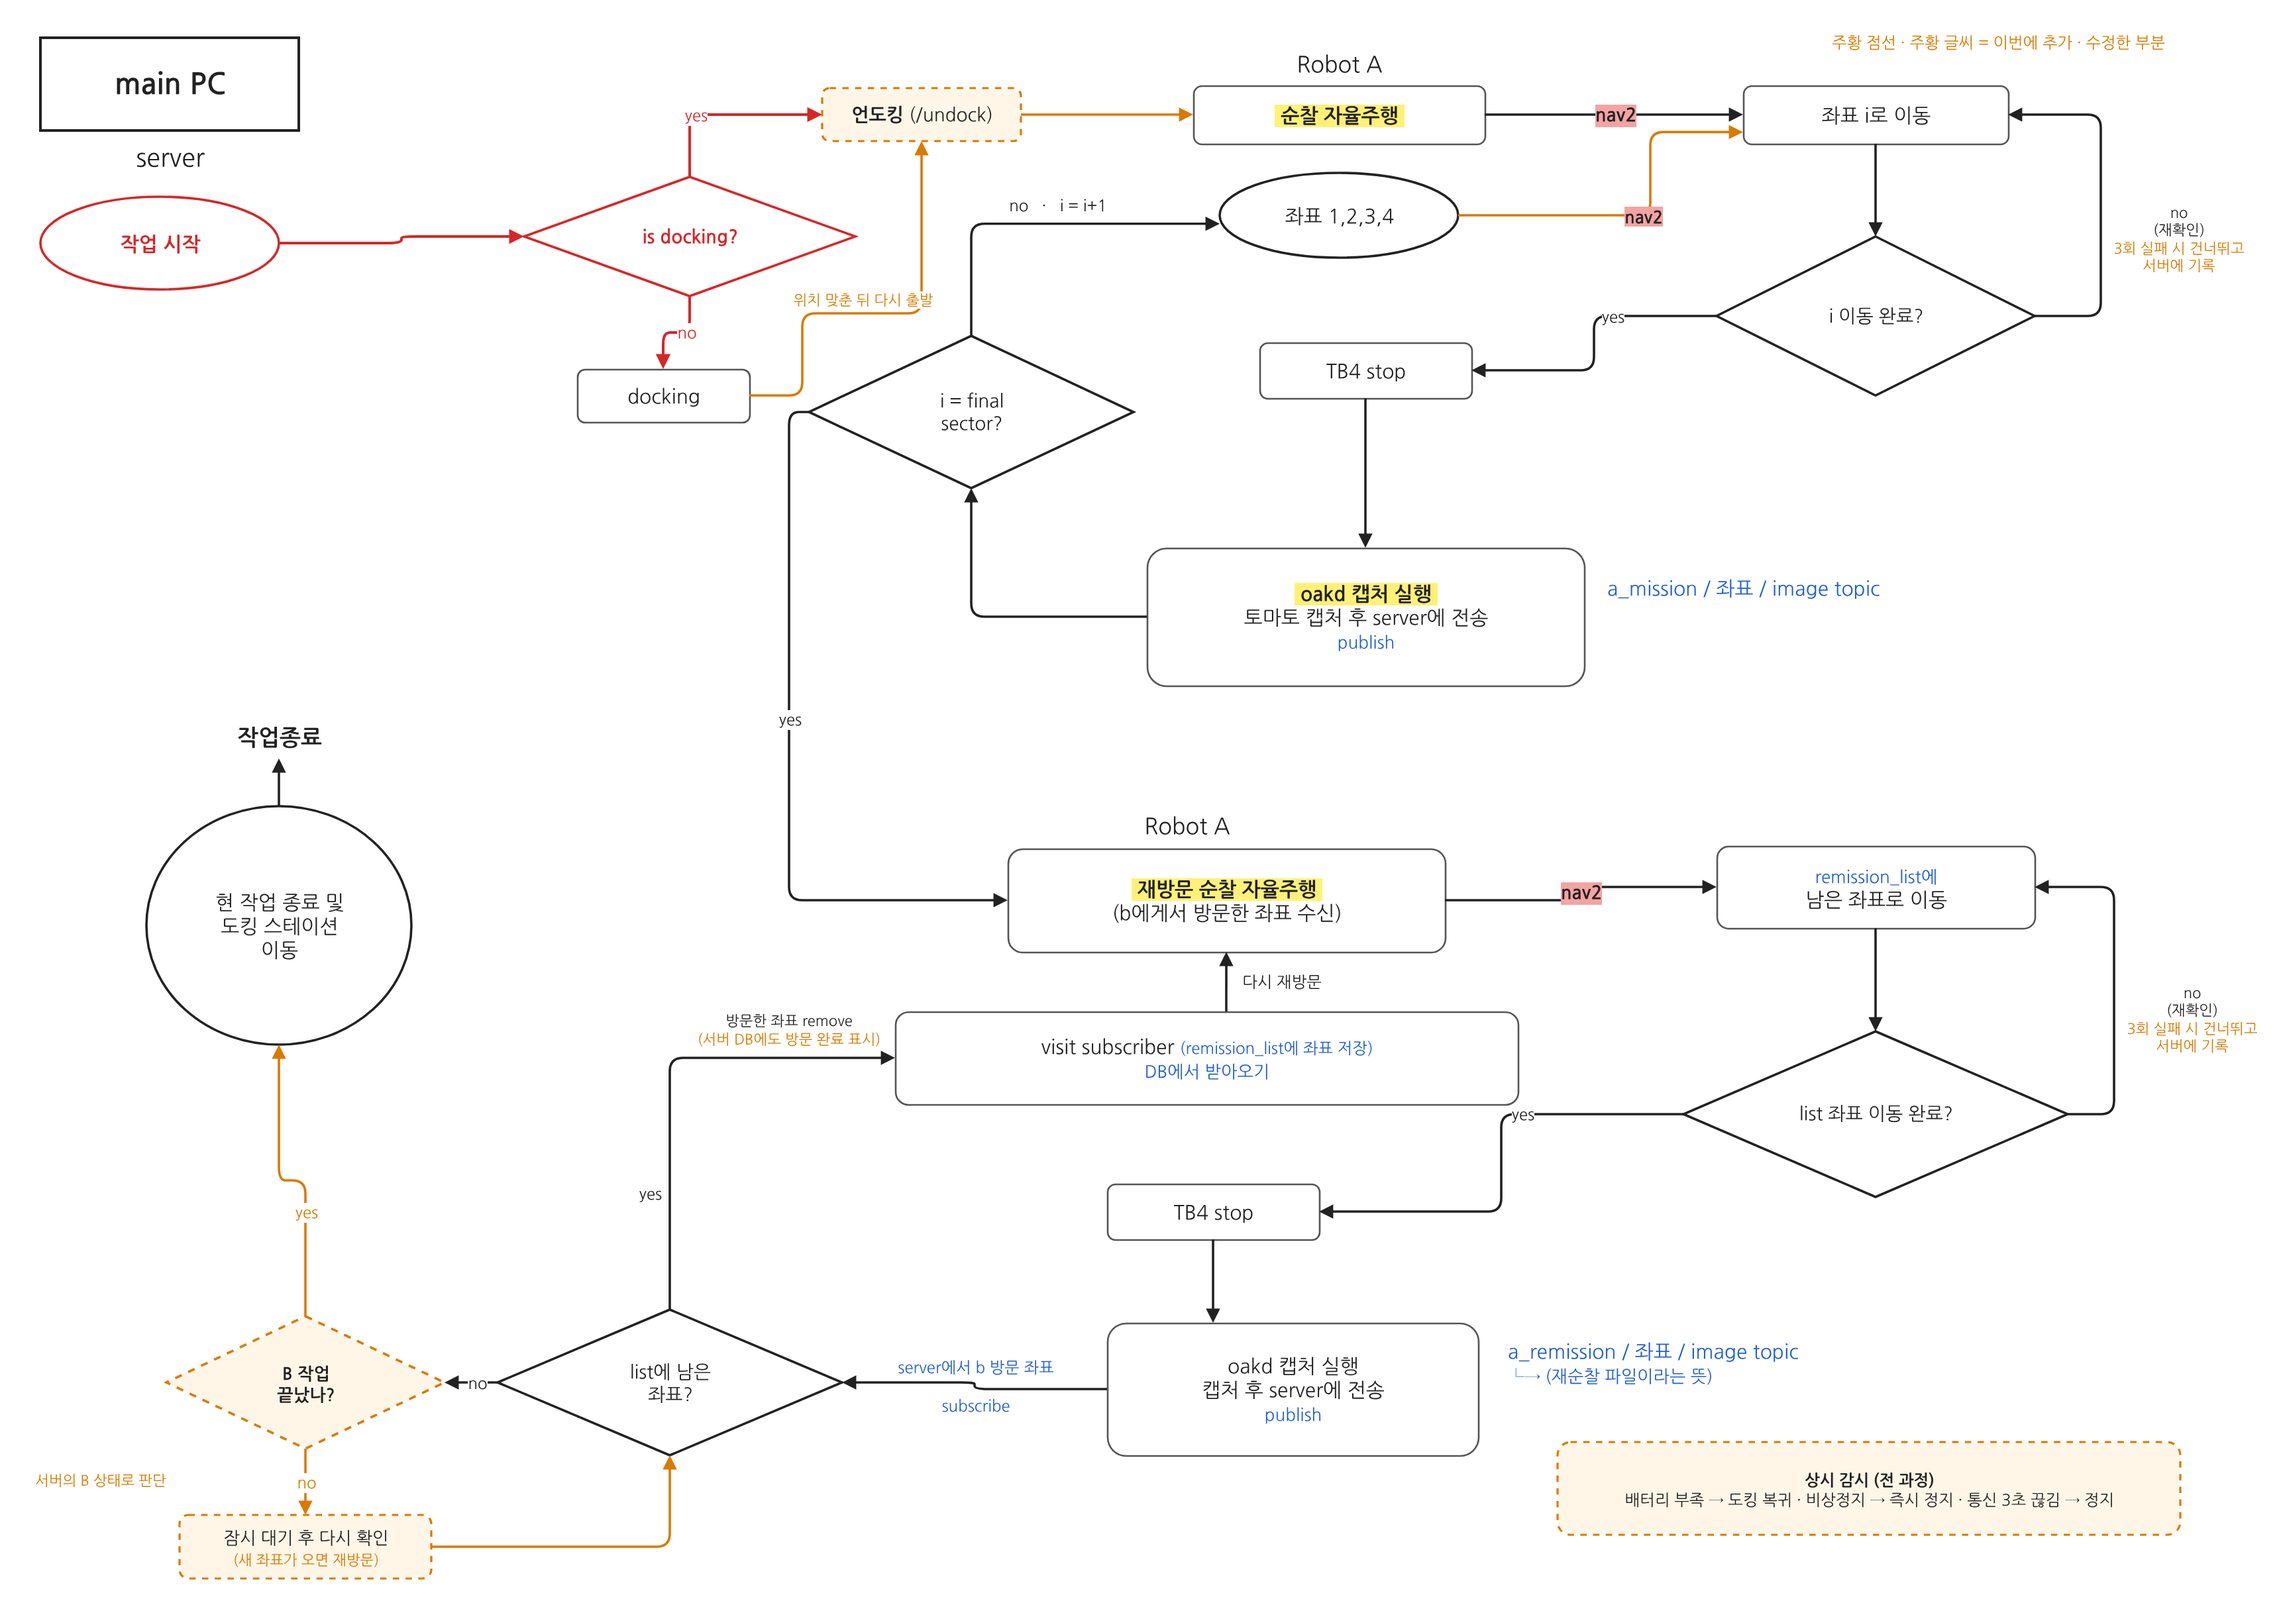
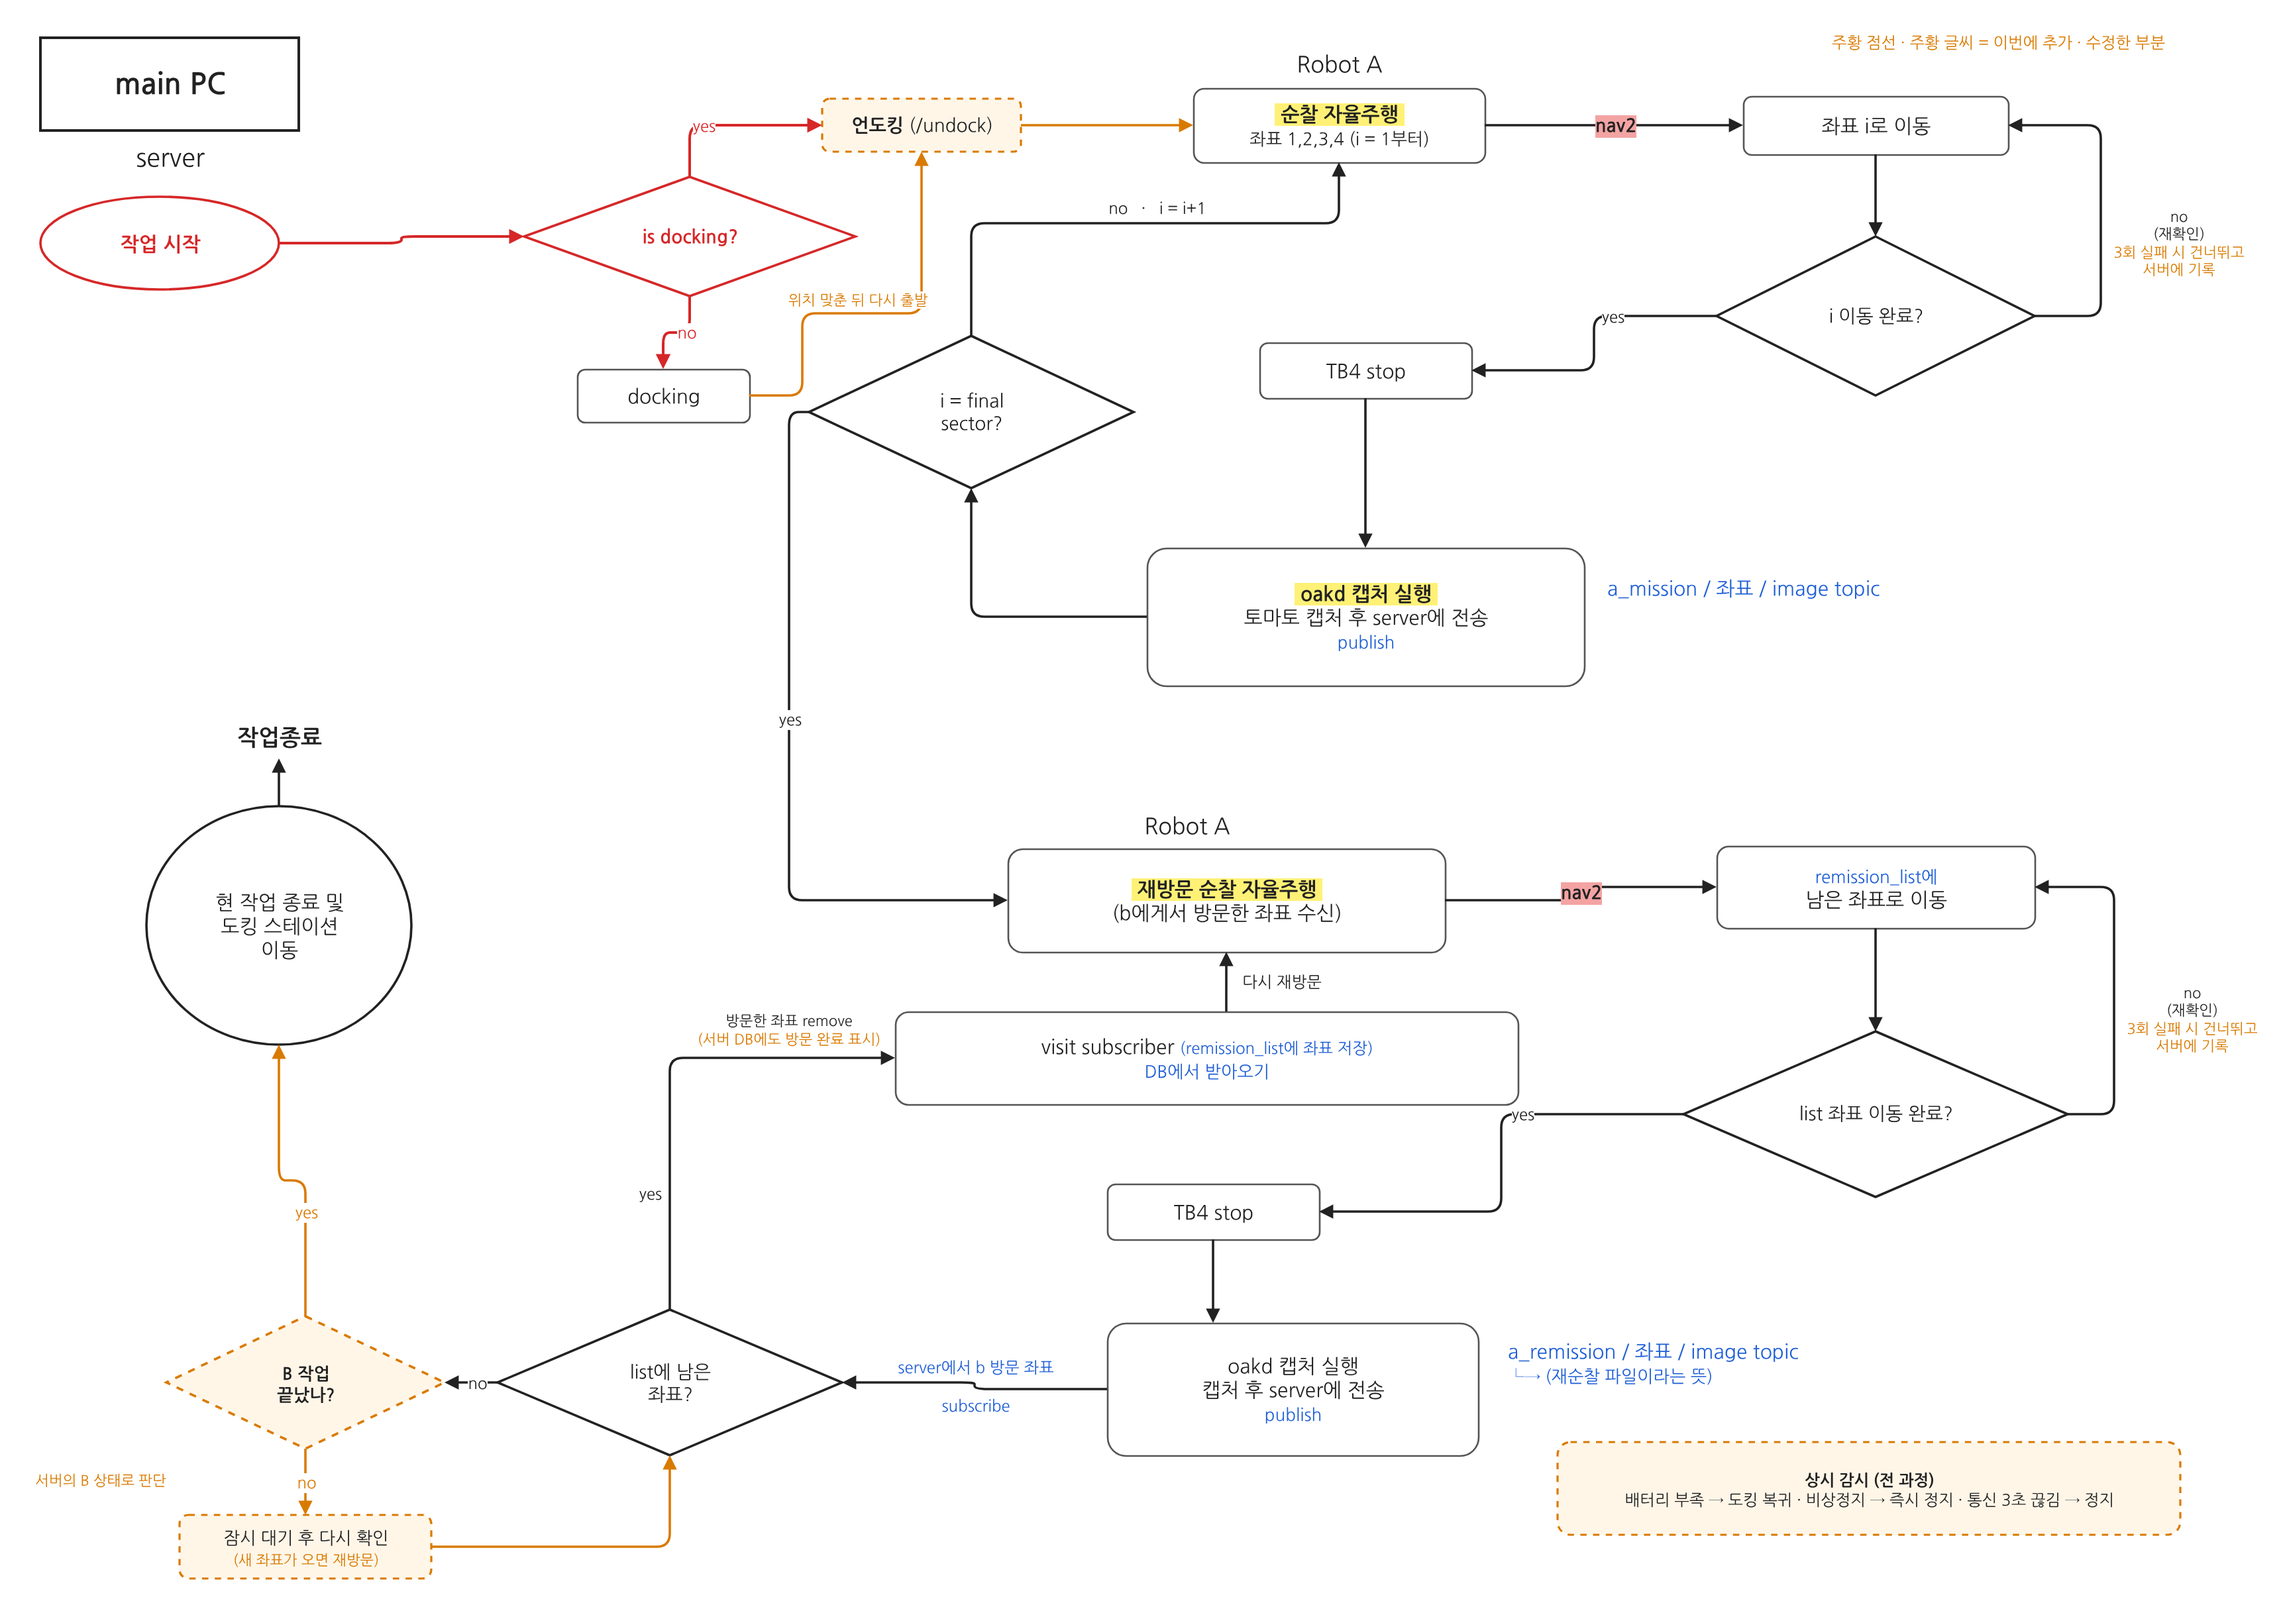
우리의 로직: 순찰 자율주행과 좌표 1,2,3,4를 한 단계로 합침
Claude-Session: https://claude.ai/code/session_01528HrcY1y9kFFTVHbeoEZe

diff --git a/reports/robotA_arch/gen_logic.py b/reports/robotA_arch/gen_logic.py
@@ -60,29 +60,27 @@ text(35, 98, 195, 26, 'server', size=19)
 ST = oval(35, 140, 180, 70, '<b>작업 시작</b>', RED)
 D0 = dia(400, 125, 250, 90, '<b>is docking?</b>', RED)
 DK = step(440, 270, 130, 40, 'docking')
-UD = box(625, 58, 150, 40, '<b>언도킹</b> (/undock)', ADD)
+UD = box(625, 66, 150, 40, '<b>언도킹</b> (/undock)', ADD)
 edge(ST, D0, color=RED, width=2)
 edge(D0, DK, 'no', color=RED, ex=0.5, ey=1, nx=0.5, ny=0, lx=-0.2, width=2)
 
 # ---- 1단계: 순찰 ----
 text(905, 26, 220, 26, 'Robot A', size=17)
-P1 = step(905, 56, 220, 44, hl('<b>순찰 자율주행</b>'))
-C1 = oval(925, 122, 180, 64, '좌표 1,2,3,4')
-M1 = step(1320, 56, 200, 44, '좌표 i로 이동')
+P1 = step(905, 58, 220, 56, hl('<b>순찰 자율주행</b>') + '<br><span style="font-size:13px">좌표 1,2,3,4 (i = 1부터)</span>')
+M1 = step(1320, 64, 200, 44, '좌표 i로 이동')
 D1 = dia(1300, 170, 240, 120, 'i 이동 완료?')
 T1 = step(955, 250, 160, 42, 'TB4 stop')
 O1 = step(870, 405, 330, 104, hl('<b>oakd 캡처 실행</b>') + '<br>토마토 캡처 후 server에 전송<br>' + blue('publish'))
 text(1215, 420, 330, 30, blue('a_mission / 좌표 / image topic', 15), align='left')
 FD = dia(615, 245, 245, 115, 'i = final<br>sector?')
 
-edge(D0, UD, 'yes', color=RED, ex=0.5, ey=0, nx=0, ny=0.5, points=((525, 78),), lx=-0.3, width=2)
+edge(D0, UD, 'yes', color=RED, ex=0.5, ey=0, nx=0, ny=0.5, points=((525, 86),), lx=-0.3, width=2)
 edge(UD, P1, ex=1, ey=0.5, nx=0, ny=0.5, color=OR)
 edge(DK, UD, add_note('위치 맞춘 뒤 다시 출발'), ex=1, ey=0.5, nx=0.5, ny=1, points=((610, 290), (610, 228), (700, 228)), color=OR, lx=-0.086, loff=(0, -11), font=11)
-edge(FD, C1, 'no &nbsp; · &nbsp; i = i+1', ex=0.5, ey=0, nx=0, ny=0.6, points=((737, 160),), lx=0.1, loff=(0, -14))
+edge(FD, P1, 'no &nbsp; · &nbsp; i = i+1', ex=0.5, ey=0, nx=0.5, ny=1, points=((737, 160), (1015, 160)), lx=0.1, loff=(0, -12))
 edge(P1, M1, '<b>nav2</b>', lbg=NAVBG, fcol=INK, font=14)
 edge(M1, D1, ex=0.5, ey=1, nx=0.5, ny=0)
-edge(C1, M1, '<b>nav2</b>', ex=1, ey=0.5, nx=0, ny=0.8, points=((1250, 154), (1250, 91)), lbg=NAVBG, fcol=INK, font=13, color=OR)
-edge(D1, M1, 'no<br>(재확인)<br>' + add_note('3회 실패 시 건너뛰고<br>서버에 기록'), ex=1, ey=0.5, nx=1, ny=0.5, points=((1590, 230), (1590, 78)), lx=-0.2, loff=(58, 0), font=11)
+edge(D1, M1, 'no<br>(재확인)<br>' + add_note('3회 실패 시 건너뛰고<br>서버에 기록'), ex=1, ey=0.5, nx=1, ny=0.5, points=((1590, 230), (1590, 86)), lx=-0.2, loff=(58, 0), font=11)
 edge(D1, T1, 'yes', ex=0, ey=0.5, nx=1, ny=0.5, lx=-0.3)
 edge(T1, O1, ex=0.5, ey=1, nx=round((1035 - 870) / 330, 4), ny=0)
 edge(O1, FD, '', ex=0, ey=0.5, nx=0.5, ny=1, points=((737, 457),))
